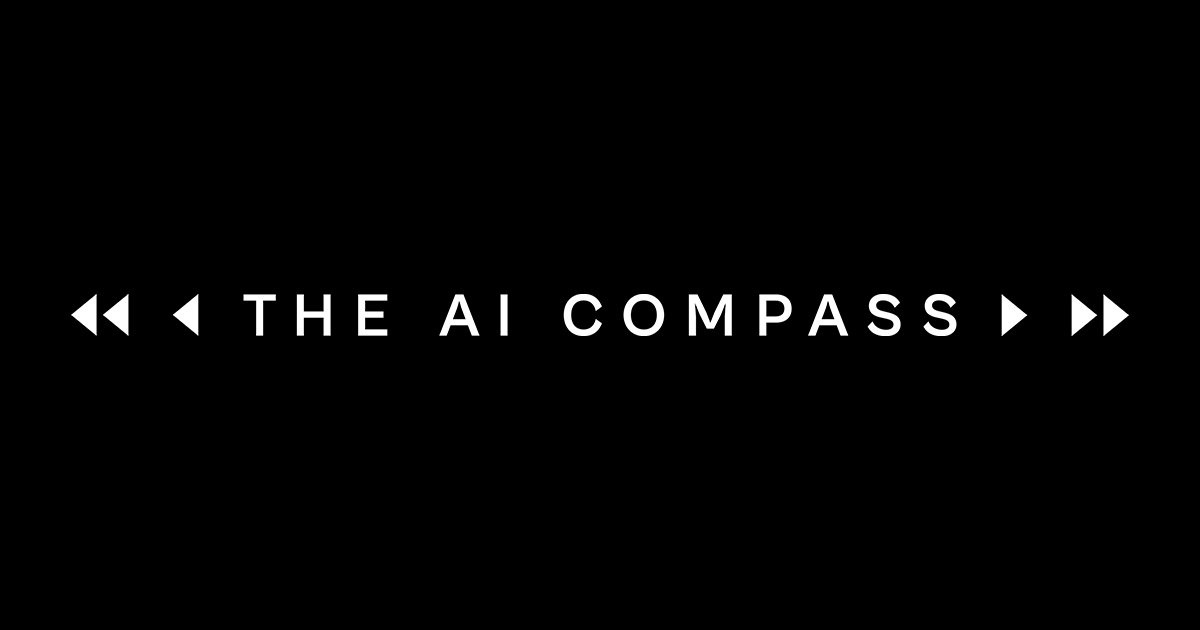
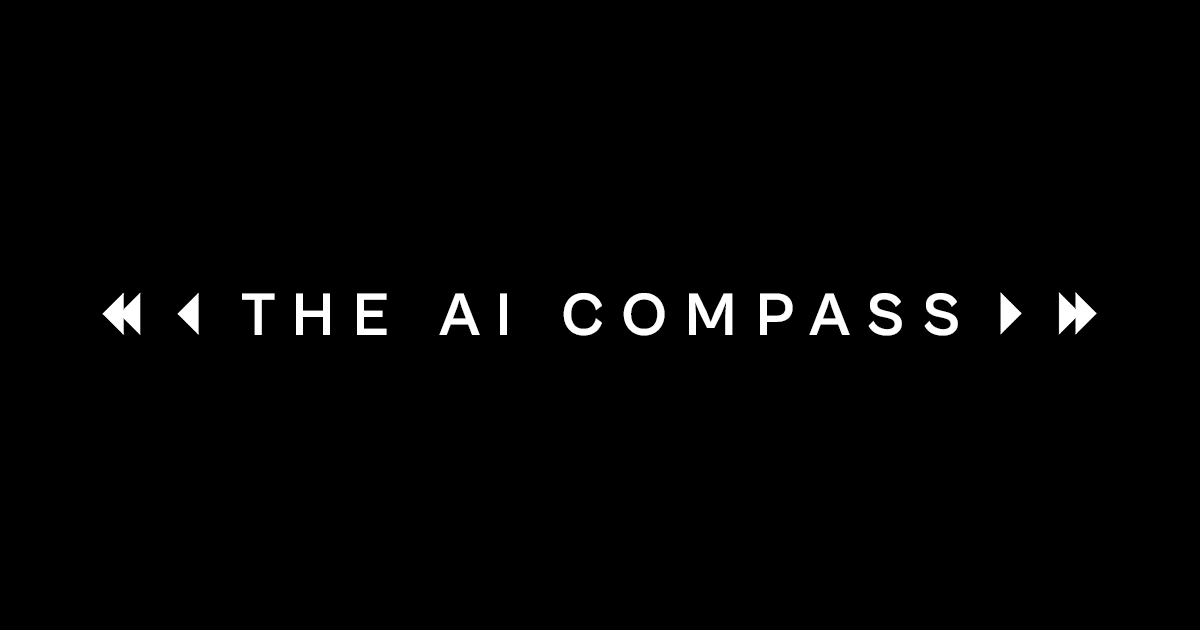
Exclude dev tests from site stats

diff --git a/src/AdminDashboard.jsx b/src/AdminDashboard.jsx
@@ -2,7 +2,6 @@ import { useEffect, useMemo, useState } from "react";
 import {
   collection,
   doc,
-  getCountFromServer,
   getDoc,
   getDocs,
   orderBy,
@@ -123,6 +122,7 @@ function normalizeSubmission(docSnap) {
 
   return {
     id: docSnap.id,
+    isDev: data.is_dev === true || data.isDev === true,
     timestamp,
     x: readNumber(data.x, data.x_score),
     y: readNumber(data.y, data.y_score),
@@ -228,12 +228,13 @@ function AdminDashboard() {
       setError("");
       try {
         const submissionsRef = collection(db, SUBMISSIONS_COLLECTION);
-        const [countSnap, docsSnap] = await Promise.all([
-          getCountFromServer(submissionsRef),
-          getDocs(query(submissionsRef, orderBy("created_at", "desc"))),
-        ]);
+        const docsSnap = await getDocs(
+          query(submissionsRef, orderBy("created_at", "desc")),
+        );
         if (cancelled) return;
-        const normalized = docsSnap.docs.map(normalizeSubmission);
+        const normalized = docsSnap.docs
+          .map(normalizeSubmission)
+          .filter((submission) => !submission.isDev);
         const privateDocs = await Promise.all(
           normalized.slice(0, RECENT_LIMIT).map(async (submission) => {
             try {
@@ -247,7 +248,7 @@ function AdminDashboard() {
           }),
         );
         const privateById = new Map(privateDocs);
-        setTotalSubmissions(countSnap.data().count);
+        setTotalSubmissions(normalized.length);
         setSubmissions(
           normalized.map((submission) =>
             mergePrivateSubmissionFields(submission, privateById.get(submission.id)),